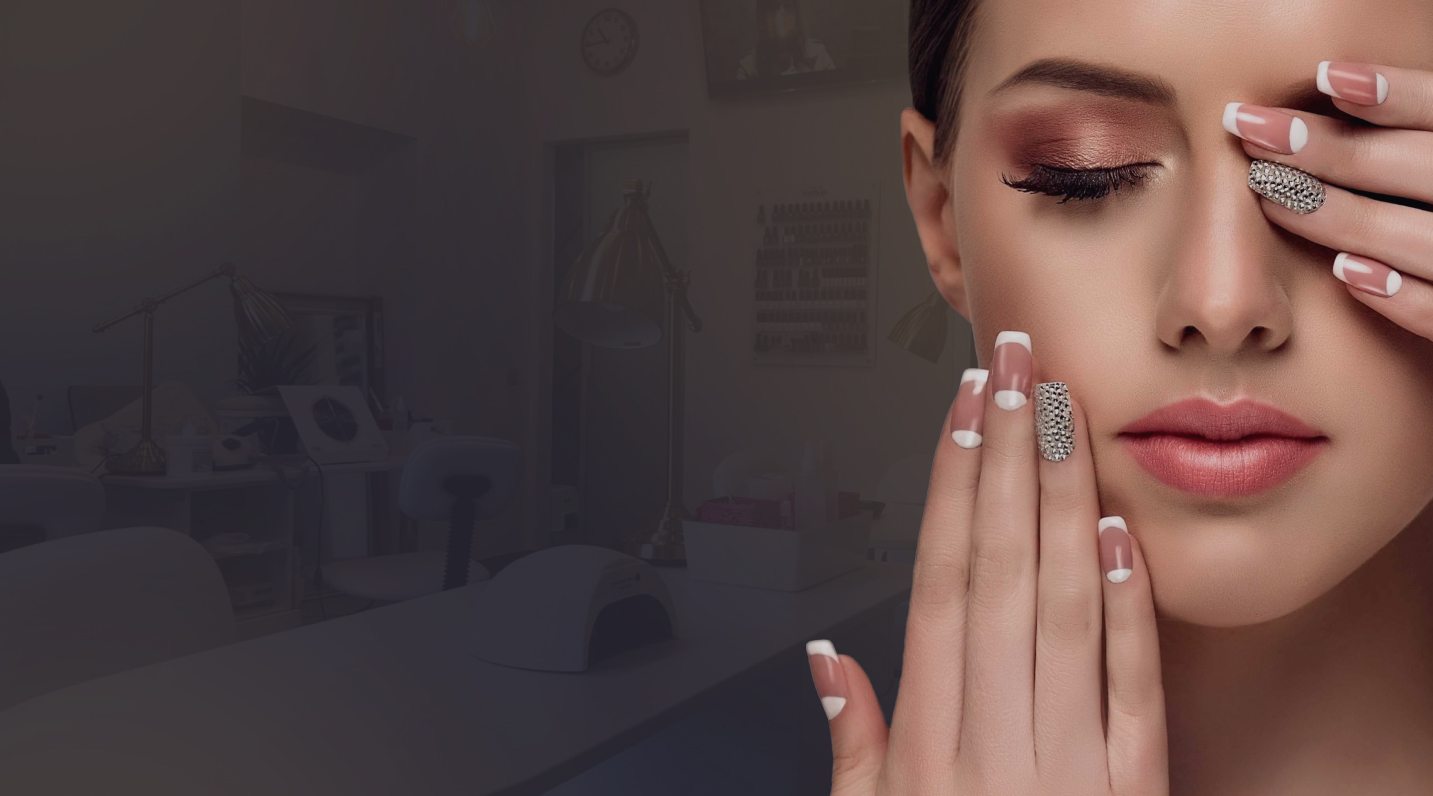
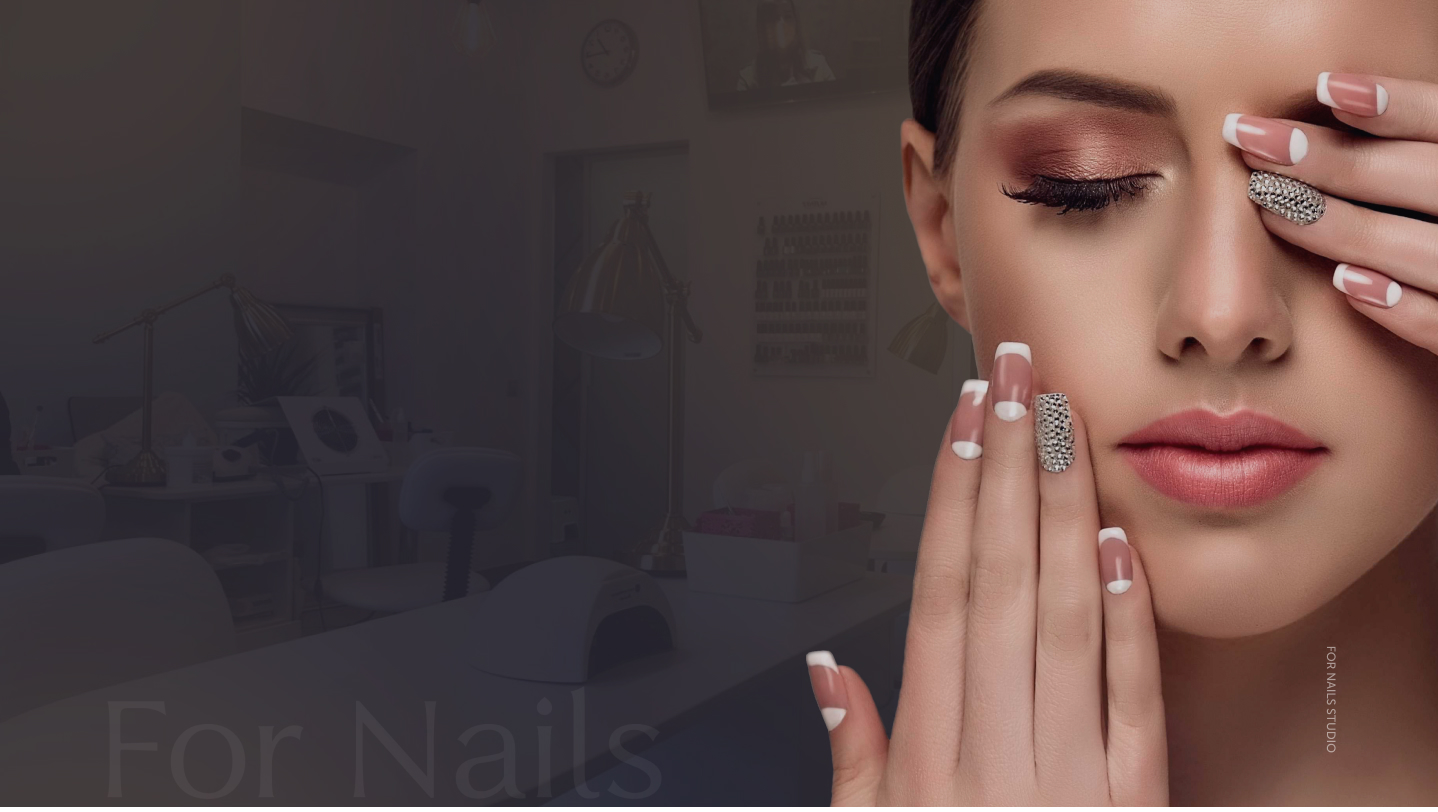
Main screen finished

diff --git a/css/style.css b/css/style.css
@@ -41,13 +41,14 @@
 }
 
 @font-face {
-  font-family: 'Conv_MuseoSansCyrl_900';
-  src: url("fonts/MuseoSansCyrl_900.eot");
-  src: local("☺"), url("fonts/MuseoSansCyrl_900.woff") format("woff"), url("fonts/MuseoSansCyrl_900.ttf") format("truetype"), url("fonts/MuseoSansCyrl_900.svg") format("svg");
-  font-weight: normal;
+  font-family: 'Museo Sans Cyrl';
+  src: url("../fonts/MuseoSansCyrl_900.eot");
+  src: local("☺"), url("../fonts/MuseoSansCyrl_900.woff") format("woff"), url("../fonts/MuseoSansCyrl_900.ttf") format("truetype"), url("../fonts/MuseoSansCyrl_900.svg") format("svg");
+  font-weight: 900;
   font-style: normal;
 }
 
+/*==Mixins==*/
 /*==Variables==*/
 *, *::before, *::after {
   -webkit-box-sizing: border-box;
@@ -90,6 +91,11 @@ a {
   display: flex;
   width: 86%;
   margin: 0 auto;
+}
+
+.top-logo {
+  display: block;
+  margin-left: -50px;
 }
 
 .nav-menu {
@@ -164,8 +170,7 @@ a {
 .signup-btn {
   display: inline-block;
   outline: none;
-  width: 123px;
-  height: 45px;
+  padding: 15px 17px;
   position: absolute;
   top: 25px;
   right: -140px;
@@ -270,9 +275,11 @@ a {
 
 .main-screen {
   margin-top: 100px;
-  height: 796px;
+  height: 800px;
   background-image: url(../img/header-bg.jpg);
   background-size: cover;
+  color: #FFFFFF;
+  font-family: 'Museo Sans Cyrl', sans-serif;
 }
 
 .main__big-txt {
@@ -280,11 +287,11 @@ a {
   position: absolute;
   width: 688px;
   height: 190px;
-  left: calc(50% - 688px/2 - 226px);
-  top: 229px;
+  left: 160px;
+  top: 218px;
   font-size: 62px;
   line-height: 71px;
-  color: #FFFFFF;
+  margin-bottom: 46px;
 }
 
 .main__big-txt span {
@@ -293,5 +300,50 @@ a {
 
 .invisible {
   visibility: hidden;
+}
+
+.main__small-txt {
+  position: absolute;
+  width: 334px;
+  height: 52px;
+  left: 162px;
+  top: 510px;
+  font-weight: 300;
+  font-size: 18px;
+  line-height: 24px;
+  opacity: 0.7;
+}
+
+.btn-discount {
+  border: 0;
+  outline: none;
+  position: absolute;
+  left: 150px;
+  top: 620px;
+  padding: 20px;
+  background: linear-gradient(251.94deg, #DBB972 14.36%, #F3D28E 51.49%, #DBB972 91.31%);
+  border-radius: 30px;
+  font-weight: 600;
+  font-size: 16px;
+  line-height: 19px;
+  display: -webkit-box;
+  display: -ms-flexbox;
+  display: flex;
+  -webkit-box-align: center;
+      -ms-flex-align: center;
+          align-items: center;
+  text-align: center;
+  color: #FFFFFF;
+}
+
+.btn-discount:hover, .btn-discount :focus {
+  background: linear-gradient(80deg, #F3D28E 14.36%, #DBB972 51.49%, #DBB972 91.31%);
+  -webkit-box-shadow: 0px 4px 30px rgba(219, 185, 114, 0.6);
+          box-shadow: 0px 4px 30px rgba(219, 185, 114, 0.6);
+}
+
+.btn-discount:active {
+  -webkit-box-shadow: inset 0px 4px 30px -1px rgba(0, 0, 0, 0.6);
+          box-shadow: inset 0px 4px 30px -1px rgba(0, 0, 0, 0.6);
 }
 /*# sourceMappingURL=style.css.map */

diff --git a/css/style.scss b/css/style.scss
@@ -105,6 +105,11 @@ a{
 	}
 }
 
+.top-logo{
+display: block;
+margin-left: -50px;
+}
+
 .nav-menu {
 	margin-left: 12px;
 
@@ -170,8 +175,7 @@ a{
 .signup-btn{
 display: inline-block;
 outline: none;
-width: 123px;
-height: 45px;
+padding: 15px 17px;
 position: absolute;
 top: 25px;
 right: -140px;
@@ -257,21 +261,23 @@ background: linear-gradient(80deg, #F3D28E 14.36%,#DBB972 51.49%, #DBB972 91.31%
 
 .main-screen{
 	margin-top: 100px;
-	height: 796px;
+	height: 800px;
 	background-image: url(../img/header-bg.jpg);
 	background-size: cover;
+	color: #FFFFFF;
+	@include font-museo;
 }
 
 .main__big-txt{
-	@include font-alumna;
+@include font-alumna;
 position: absolute;
 width: 688px;
 height: 190px;
-left: calc(50% - 688px/2 - 226px);
-top: 229px;
+left: 160px;
+top: 218px;
 font-size: 62px;
 line-height: 71px;
-color: #FFFFFF;
+margin-bottom: 46px;
 
 	span{
 		color: $gold;
@@ -281,4 +287,49 @@ color: #FFFFFF;
 
 .invisible{
 	visibility: hidden;
+}
+
+.main__small-txt{
+position: absolute;
+width: 334px;
+height: 52px;
+left: 162px;
+top: 510px;
+font-weight: 300;
+font-size: 18px;
+line-height: 24px;
+opacity: 0.7;
+
+}
+
+.btn-discount{
+border: 0;
+outline: none;
+position: absolute;
+left: 150px;
+top: 620px;
+padding: 20px;
+background: linear-gradient(251.94deg, #DBB972 14.36%, #F3D28E 51.49%, #DBB972 91.31%);
+border-radius: 30px;
+font-weight: 600;
+font-size: 16px;
+line-height: 19px;
+display: flex;
+align-items: center;
+text-align: center;
+color: #FFFFFF;
+
+&:hover,:focus{
+	background: linear-gradient(80deg, #F3D28E 14.36%,#DBB972 51.49%, #DBB972 91.31%);
+	box-shadow: 0px 4px 30px rgba(219, 185, 114, 0.6);
+	}
+	
+&:active{
+    box-shadow: inset  0px 4px 30px -1px rgba(0, 0, 0, 0.6);
+	}
+
+
+
+
+
 }

diff --git a/index.html b/index.html
@@ -12,6 +12,7 @@
   <header class="main-header">
     <div class="top-line">
       <div class="top-line__content">
+        
         <a class="top-logo" href="#">
           <img src="img/Logo.svg" alt="ForNailsStudio logo">
         </a>
@@ -58,7 +59,9 @@
 
 <p class="main__small-txt">Мы делаем только маникюр и педикюр и эти услуги мы вывели в абсолют</p>
 
-<button class="signup-btn btn-discount">Записаться со скидкой</button>
+<div class="btn-wrapper">
+<button class="btn-discount">Записаться со скидкой</button>
+</div>
 
 </div>
 </header>
